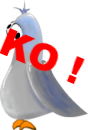
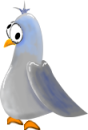
Pigeon animation

Changed region(s): [[0.0, 0.2154, 0.6818, 0.5538], [0.0682, 0.8923, 0.4773, 1.0], [0.75, 0.4308, 0.9773, 0.6462]]

diff --git a/GameJam/GameJam/Pigeon.hpp b/GameJam/GameJam/Pigeon.hpp
@@ -12,6 +12,9 @@ public:
 	{
 		_texture[0].loadFromFile("ressources/pigeon.png");
 		_texture[1].loadFromFile("ressources/pigeon1.png");
+		_texture[2].loadFromFile("ressources/pigeon2.png");
+		_texture[3].loadFromFile("ressources/pigeon3.png");
+		_texture[4].loadFromFile("ressources/pigeon4.png");
 		_sprite.setTexture(_texture[0]);
 		_sprite.setScale(1, 1);
 		if ((_direction = ((rand() % 100) / 50) ? true : false))
@@ -26,6 +29,12 @@ public:
 	{
 		if (_shooted == false)
 		{
+			if (_frameClock.getElapsedTime().asMilliseconds() > 50)
+			{
+				++_frame;
+				_frame %= 4;
+				_sprite.setTexture(_texture[_frame]);
+			}
 			if (_direction)
 			{
 				_sprite.setPosition(_sprite.getPosition().x + 1.0f, 500);
@@ -68,9 +77,8 @@ public:
 		}
 		else
 		{
-			if (_frame < 1)
-				++_frame;
-			_sprite.setTexture(_texture[_frame]);
+			_frame = 4;
+			_sprite.setTexture(_texture[4]);
 			if (_clock.getElapsedTime().asSeconds() > 1)
 				init();
 		}
@@ -96,10 +104,12 @@ private:
 
 private:
 	int			_frame;
+	sf::Clock	_frameClock;
+
 	bool		_direction;
 	bool		_shooted;
 
-	sf::Texture	_texture[2];
+	sf::Texture	_texture[5];
 	sf::Sprite	_sprite;
 
 	sf::Clock	_clock;
